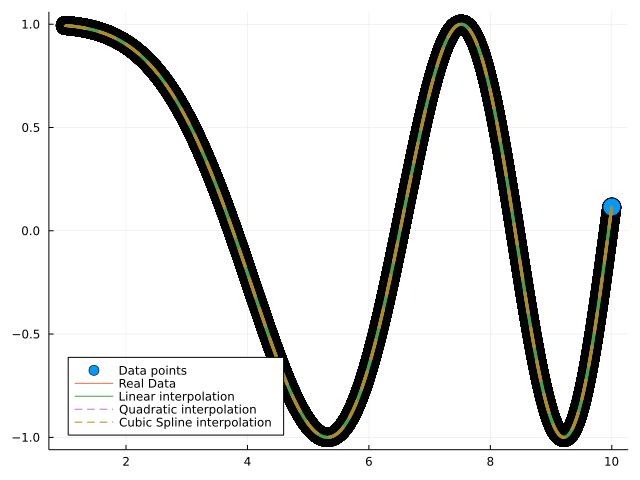
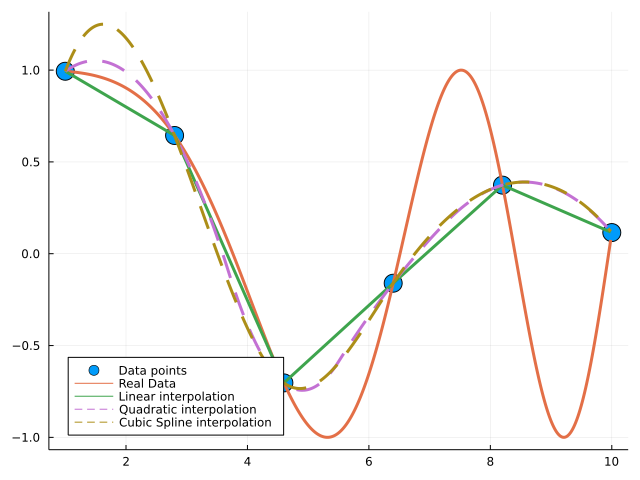
fix index problem in cubic interpolation

diff --git a/Interpolate_DIY.py b/Interpolate_DIY.py
@@ -5,7 +5,7 @@ from sympy import *
 
 
 def fx(x):
-    return x**3
+    return np.sin(x)
 
 class Interpolation:
     def __init__(self):
@@ -78,8 +78,8 @@ class Interpolation:
 	                    matrix_k[diagonal][diagonal - 1] = 1
 	                if diagonal + 1 < len(matrix_k[diagonal]):
 	                    matrix_k[diagonal][diagonal + 1] = 1
-	                Y = y[diagonal - 1] - 2 * y[diagonal] + y[diagonal + 1]
-	                X = 6 / (x[diagonal] - x[diagonal - 1]) ** 2
+	                Y = y[diagonal] - 2 * y[diagonal+1] + y[diagonal + 2]
+	                X = 6 / (x[diagonal+1] - x[diagonal]) ** 2
 	                matrix_y.append([X * Y])
 
         matrix_k = np.array(matrix_k)
@@ -162,8 +162,8 @@ def main():
     f4 = interp1d(x, y, kind="cubic")
 
     # -----------------------Plot------------------------------
-    plt.plot(x, y, "o", new_x, f4(new_x), "-", new_x, function_y3, "--")
-    plt.legend(["data", "AI_cubic", "cubic"], loc="best")
+    plt.plot(new_x, function_y, "-", new_x, function_y2, "-", new_x, function_y3, "--")
+    plt.legend(["linear", "quadratic", "cubic"], loc="best")
     plt.show()
 
 
